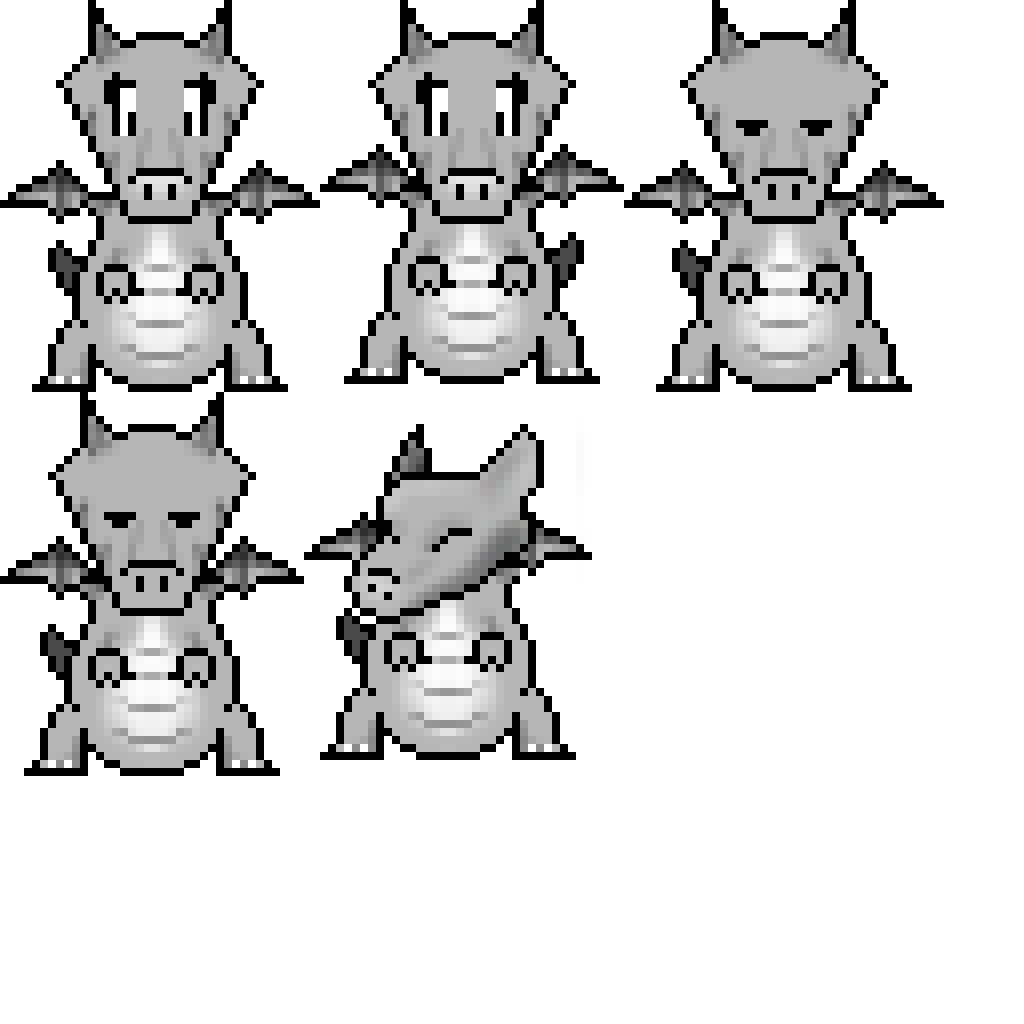
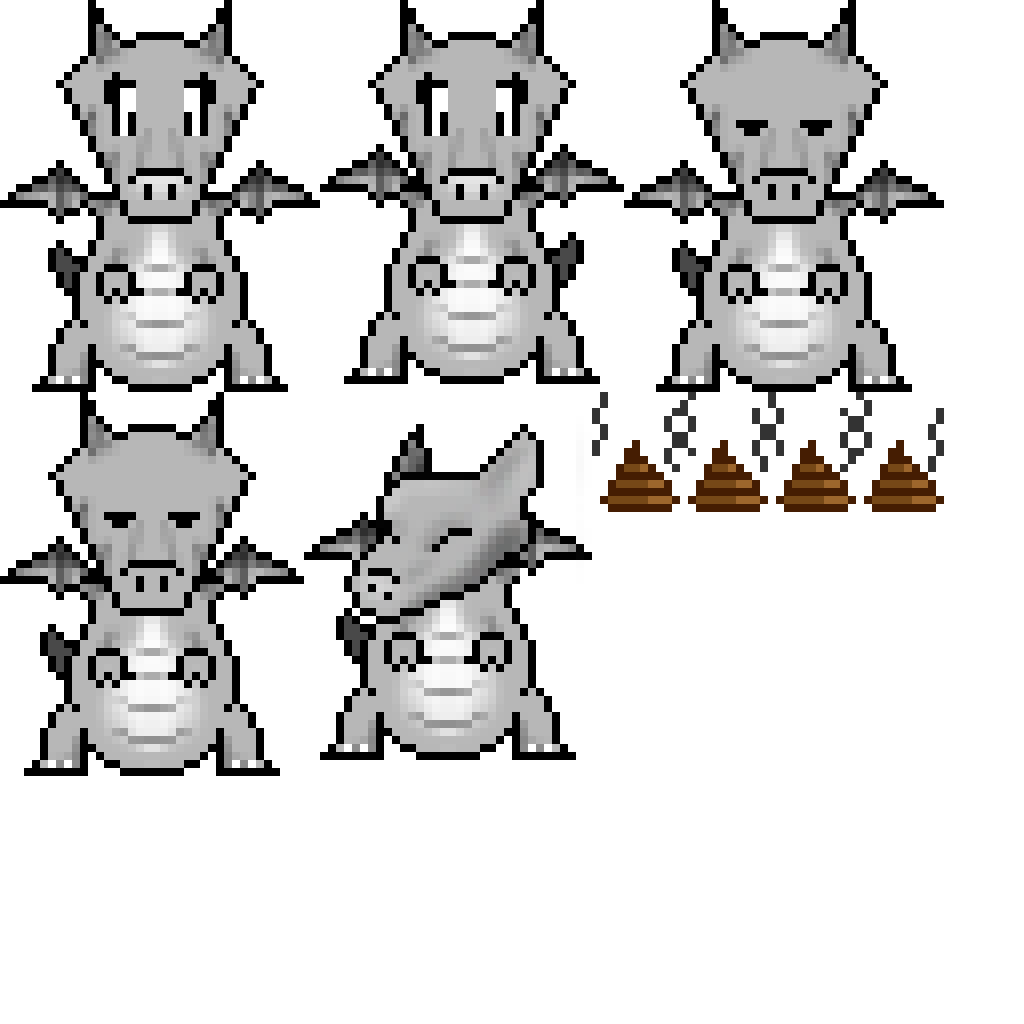
Made an array of poops, and the image to fill it.  Clicking the toilet button, which I also just made, cleans the poop.  For testing purposes, clicking the checkin button makes the dragon poop. As of right now, I don't know how to animate more than one poop.

Changed region(s): [[0.5938, 0.375, 0.9375, 0.5], [0.5625, 0.375, 0.5938, 0.4375]]

diff --git a/Amigotchi/Amigotchi/AmigoPetView.m b/Amigotchi/Amigotchi/AmigoPetView.m
@@ -7,11 +7,19 @@
 //
 
 #import "AmigoPetView.h"
+@interface AmigoPetView()
+
+@property (nonatomic, retain) CCAnimation * poopAnimation;
+@property (nonatomic, retain) CCAction * poopAction;
+
+@end
 
 @implementation AmigoPetView
 @synthesize mySprite, idleAnimation = idleAnimation_, pokeAnimation, cache, pokeAction, idleAction = idleAction_;
 @synthesize buttons = buttons_;
 @synthesize callbackDelegate = callbackDelegate_;
+@synthesize poops = poops_;
+@synthesize poopAnimation = poopAnimation_, poopAction = poopAction_;
 
 //id idleAction;
 //id pokeAction;
@@ -21,12 +29,15 @@
     if((self = [super init]))
     {
         self.cache = [CCSpriteFrameCache sharedSpriteFrameCache];
+        self.poops = [NSMutableArray arrayWithCapacity:MAX_BATHROOM];
         
         self.idleAnimation = [[CCAnimation alloc] initWithName:@"idle" delay: 1.0/2];
         self.pokeAnimation = [[CCAnimation alloc] initWithName:@"idle" delay: 1.0/2];
+        self.poopAnimation = [[CCAnimation alloc] initWithName:@"idle" delay: 1.0/2];
         
         [self.idleAnimation release];
         [self.pokeAnimation release];
+        [self.poopAnimation release];
         
         [self setSprites];
         [self setButtons];
@@ -69,12 +80,34 @@
     [self.pokeAnimation addFrame:[self.cache spriteFrameByName:@"dragon_poked.png"]];
     self.pokeAction = [CCRepeatForever actionWithAction: [CCAnimate actionWithAnimation:self.pokeAnimation]];
     
+    
+    //Poop!
+    for(int i = 1; i < 5; i++)
+    {
+        NSString * fname = [NSString stringWithFormat:@"poop_%i.png", i];
+        [self.poopAnimation addFrame:[self.cache spriteFrameByName:fname]];
+    }
+    self.poopAction = [CCRepeatForever actionWithAction: [CCAnimate actionWithAnimation:self.poopAnimation]];
+    
+    for(int i = 0; i < MAX_BATHROOM; i++)
+    {
+        CCSprite * poop = [CCSprite spriteWithSpriteFrameName:@"poop_1.png"];
+        
+        poop.position = self.mySprite.position;
+        CCSprite * whatever = [CCSprite spriteWithSpriteFrameName:@"dragon_idle_1.png"];
+        int newY = poop.position.y - whatever.contentSize.height/2;
+        poop.position = ccp(3000, newY);
+        
+        [self.poops addObject:poop];
+        [self addChild:poop z:PET_LAYER];
+        [poop release];
+    }
 }
 
 -(void) setButtons
 {
     CGSize size = [[CCDirector sharedDirector] winSize];
-    int numButtons = 3;
+    int numButtons = 4;
     
     float spacing = 2*((size.width) / numButtons); //The 2 is from the scaling in the layer.
     float curX = (self.mySprite.position.x) - (spacing * (numButtons/2.0));
@@ -107,10 +140,16 @@
     NSLog(@"Placing mapButton at %f.\n", curX);
     curX += spacing;
     
-    //Take dump button
+    //Toilet button
+    CCMenuItem *toiletButton = [CCMenuItemImage itemFromNormalSprite:[CCSprite spriteWithSpriteFrameName:@"toilet_button.png"] selectedSprite:[CCSprite spriteWithSpriteFrameName:@"toilet_button_pressed.png"] target:self selector:@selector(handleButton:)];
+    
+    toiletButton.tag = BUTTON_TOILET;
+    toiletButton.position = ccp(curX, 0);
+    NSLog(@"Placing toiletButton at %f.\n", curX);
+    curX += spacing;
     
     //Make the menu
-    self.buttons = [CCMenu menuWithItems:feedButton, checkinButton, mapButton, nil];
+    self.buttons = [CCMenu menuWithItems:feedButton, checkinButton, mapButton, toiletButton, nil];
     
     NSLog(@"width: %f height: %f", size.width, size.height);
     
@@ -145,6 +184,31 @@
     }
     self.idleAction = [CCRepeatForever actionWithAction: [CCAnimate actionWithAnimation:self.idleAnimation]];
     [self.mySprite runAction:self.idleAction];
+    
+    [self drawPoops:bathroom];
+}
+
+-(void) drawPoops:(int)numPoops
+{
+    NSLog(@"Drawing %d poops.\n", numPoops);
+    int i;
+    for(i = 0; i < numPoops; i++)
+    {
+        CCSprite * tempPoop = [self.poops objectAtIndex:i];
+        if(tempPoop.position.x > 2000)
+        {
+            //It's offscreen.
+            int newX = 160 - (rand()%320);
+            tempPoop.position = ccp(newX, tempPoop.position.y);
+            [tempPoop runAction:self.poopAction];
+        }
+    }
+    for(i = i; i < MAX_BATHROOM; i++)
+    {
+        CCSprite * tempPoop = [self.poops objectAtIndex:i];
+        [tempPoop stopAllActions];
+        tempPoop.position = ccp(3000, tempPoop.position.y);
+    }
 }
 
 -(void)handleButton:(id)sender
@@ -172,6 +236,10 @@
         case BUTTON_MAP:
             NSLog(@"AmigoPetView::Clicked button to see map");
             [self.callbackDelegate performCallback:@"mapButtonCallback"];
+            break;
+        case BUTTON_TOILET:
+            NSLog(@"AmigoPetView::Clicked button to clean bathroom");
+            [self.callbackDelegate performCallback:@"toiletButtonCallback"];
             break;
         default:
             break;

diff --git a/Amigotchi/Amigotchi/PetLayer.m b/Amigotchi/Amigotchi/PetLayer.m
@@ -101,7 +101,9 @@
                                                 initWithDelegate:self 
                                                 andSelectorNameArray:[NSArray arrayWithObjects:@"foodButtonCallback",
                                                                                                @"checkinButtonCallback",
-                                                                                               @"mapButtonCallback" , nil]] 
+                                                                                               @"mapButtonCallback",
+                                                                                               @"toiletButtonCallback",
+                                                                      nil]] 
                                        autorelease];
     
     return delegate;
@@ -114,11 +116,16 @@
 }
 - (void) checkinButtonCallback {
     NSLog(@"PetLayer::checkinButtonCallback");
-    
+    self.pet.bathroom++;
 }
 - (void) mapButtonCallback {
     NSLog(@"PetLayer::mapButtonCallback");
     
+}
+- (void) toiletButtonCallback
+{
+    NSLog(@"PetLayer::toiletButtonCallback");
+    [self.pet cleanBathroom];
 }
          
 @end

diff --git a/Amigotchi/Amigotchi/AmigoPetView.h b/Amigotchi/Amigotchi/AmigoPetView.h
@@ -21,10 +21,12 @@
 - (void) setButtons;
 - (void) refreshSpriteswithHappiness:(int)happiness andHunger:(int)hunger andBathroom:(int)bathroom;
 - (void) handleButton:(id)sender;
+- (void) drawPoops:(int)numPoops;
 
 
 @property (nonatomic, retain) AmigoCallbackDelegate *callbackDelegate;
 @property (nonatomic, retain) CCSprite * mySprite;
+@property (nonatomic, retain) NSMutableArray * poops;
 @property (nonatomic, retain) CCMenu * buttons;
 @property (nonatomic, retain) CCSpriteFrameCache * cache;
 

diff --git a/Amigotchi/Amigotchi/AmigoConfig.h b/Amigotchi/Amigotchi/AmigoConfig.h
@@ -17,12 +17,13 @@
 #define MENU_HEIGHT 50
 
 #define MAX_HUNGER 20
-#define MAX_BATHROOM 40
+#define MAX_BATHROOM 10
 #define MAX_HAPPINESS 20
 
 #define BUTTON_FEED 1
 #define BUTTON_CHECKIN 2
 #define BUTTON_MAP 3
+#define BUTTON_TOILET 4
 
 //facebook app id
 static NSString* kAppId = @"196872950351792";

diff --git a/Amigotchi/Amigotchi/PetLayer.h b/Amigotchi/Amigotchi/PetLayer.h
@@ -34,5 +34,6 @@
 - (void) foodButtonCallback;
 - (void) checkinButtonCallback;
 - (void) mapButtonCallback;
+- (void) toiletButtonCallback;
 
 @end

diff --git a/Amigotchi/Amigotchi/AmigoPet.h b/Amigotchi/Amigotchi/AmigoPet.h
@@ -24,6 +24,6 @@
 @property (readwrite, assign) int happiness;
 
 - (void)feed:(int)amount;
-- (void)takeDump;
+- (void)cleanBathroom;
 
 @end

diff --git a/Amigotchi/Amigotchi/AmigoPet.m b/Amigotchi/Amigotchi/AmigoPet.m
@@ -27,7 +27,7 @@
     self.hunger -= amount;
 }
 
--(void) takeDump
+-(void) cleanBathroom
 {
     self.bathroom = 0;
 }
